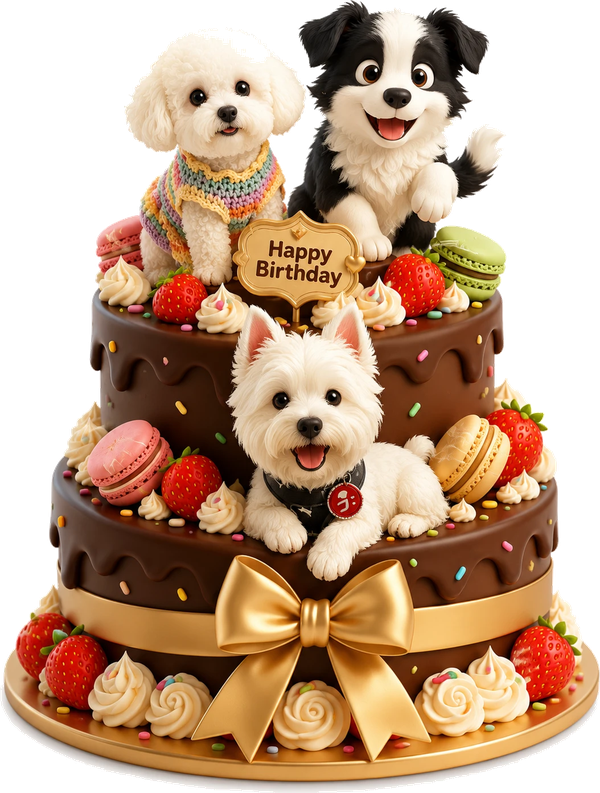
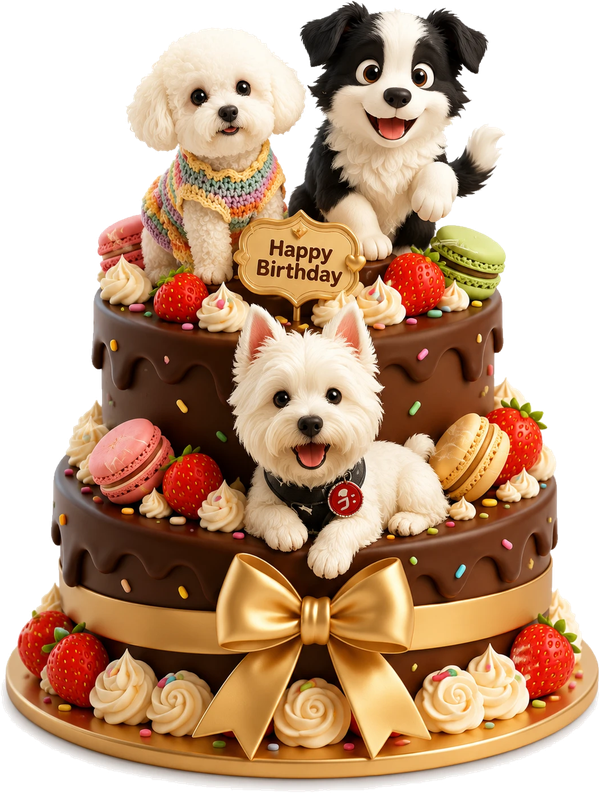
Cleaner cake cutout; arc candle layout; B option = 包包和小裙子
- Re-cut cake.png: threshold tuned to the off-white bg, plus 1px erode +
  alpha feather to remove the fringe and smooth the broken edges (dogs
  kept intact).
- Candles: move up (top 30%->15%) and arrange in an upward arc around the
  cake top (per-candle x/y offset + outward fan rotation) instead of a
  flat row.
- Wish option B: 包包 -> 包包和小裙子.

Claude-Session: https://claude.ai/code/session_019SWLra2eYm5EKjHX8aehps

diff --git a/index.html b/index.html
@@ -148,9 +148,8 @@
   .bichon svg{position:absolute;left:50%;top:2px;transform:translateX(-50%);width:108px;height:auto;overflow:visible}
   .bichon .b-eye{transform-box:fill-box;transform-origin:50% 50%;animation:blink 5.2s infinite .8s}
 
-  .cake .candles{position:absolute;left:0;right:0;top:30%;display:flex;justify-content:center;
-    gap:16px;z-index:5}
-  .candle{position:relative;width:11px;height:62px;border-radius:5px;
+  .cake .candles{position:absolute;left:0;right:0;top:15%;height:0;z-index:5}
+  .candle{position:absolute;transform-origin:50% 100%;width:11px;height:62px;border-radius:5px;
     background:repeating-linear-gradient(45deg,#fff 0 6px,#F7A8C6 6px 12px);
     box-shadow:inset -3px 0 rgba(150,90,120,.14), 0 2px 5px rgba(176,118,150,.30);cursor:pointer}
   .candle::after{content:"";position:absolute;top:-4px;left:50%;transform:translateX(-50%);
@@ -326,7 +325,7 @@
         <div class="wf-sub">想要什么礼物呀?</div>
         <div class="wf-opts">
           <button class="wf-opt" data-wish="大别墅和小狗 🏡🐶">A · 大别墅和小狗</button>
-          <button class="wf-opt" data-wish="包包 👜">B · 包包</button>
+          <button class="wf-opt" data-wish="包包和小裙子 👜👗">B · 包包和小裙子</button>
           <button class="wf-opt" id="wfCustomBtn">C · 自己填写</button>
         </div>
         <div class="wf-custom" id="wfCustom">
@@ -371,6 +370,12 @@
     const c = document.createElement('div');
     c.className='candle';
     c.innerHTML='<div class="flame"></div>';
+    // 围绕蛋糕顶部、向上拱的圆弧排列
+    const t = (CANDLE_COUNT>1 ? i/(CANDLE_COUNT-1) : 0.5) - 0.5; // -0.5 .. 0.5
+    const xoff = t*150, yoff = t*t*64, rot = t*30;
+    c.style.left = 'calc(50% + ' + xoff.toFixed(1) + 'px)';
+    c.style.top = yoff.toFixed(1) + 'px';
+    c.style.transform = 'translateX(-50%) rotate(' + rot.toFixed(1) + 'deg) scale(.86)';
     c.addEventListener('click',()=>lightOne(i));
     candlesEl.appendChild(c);
     candles.push(c);